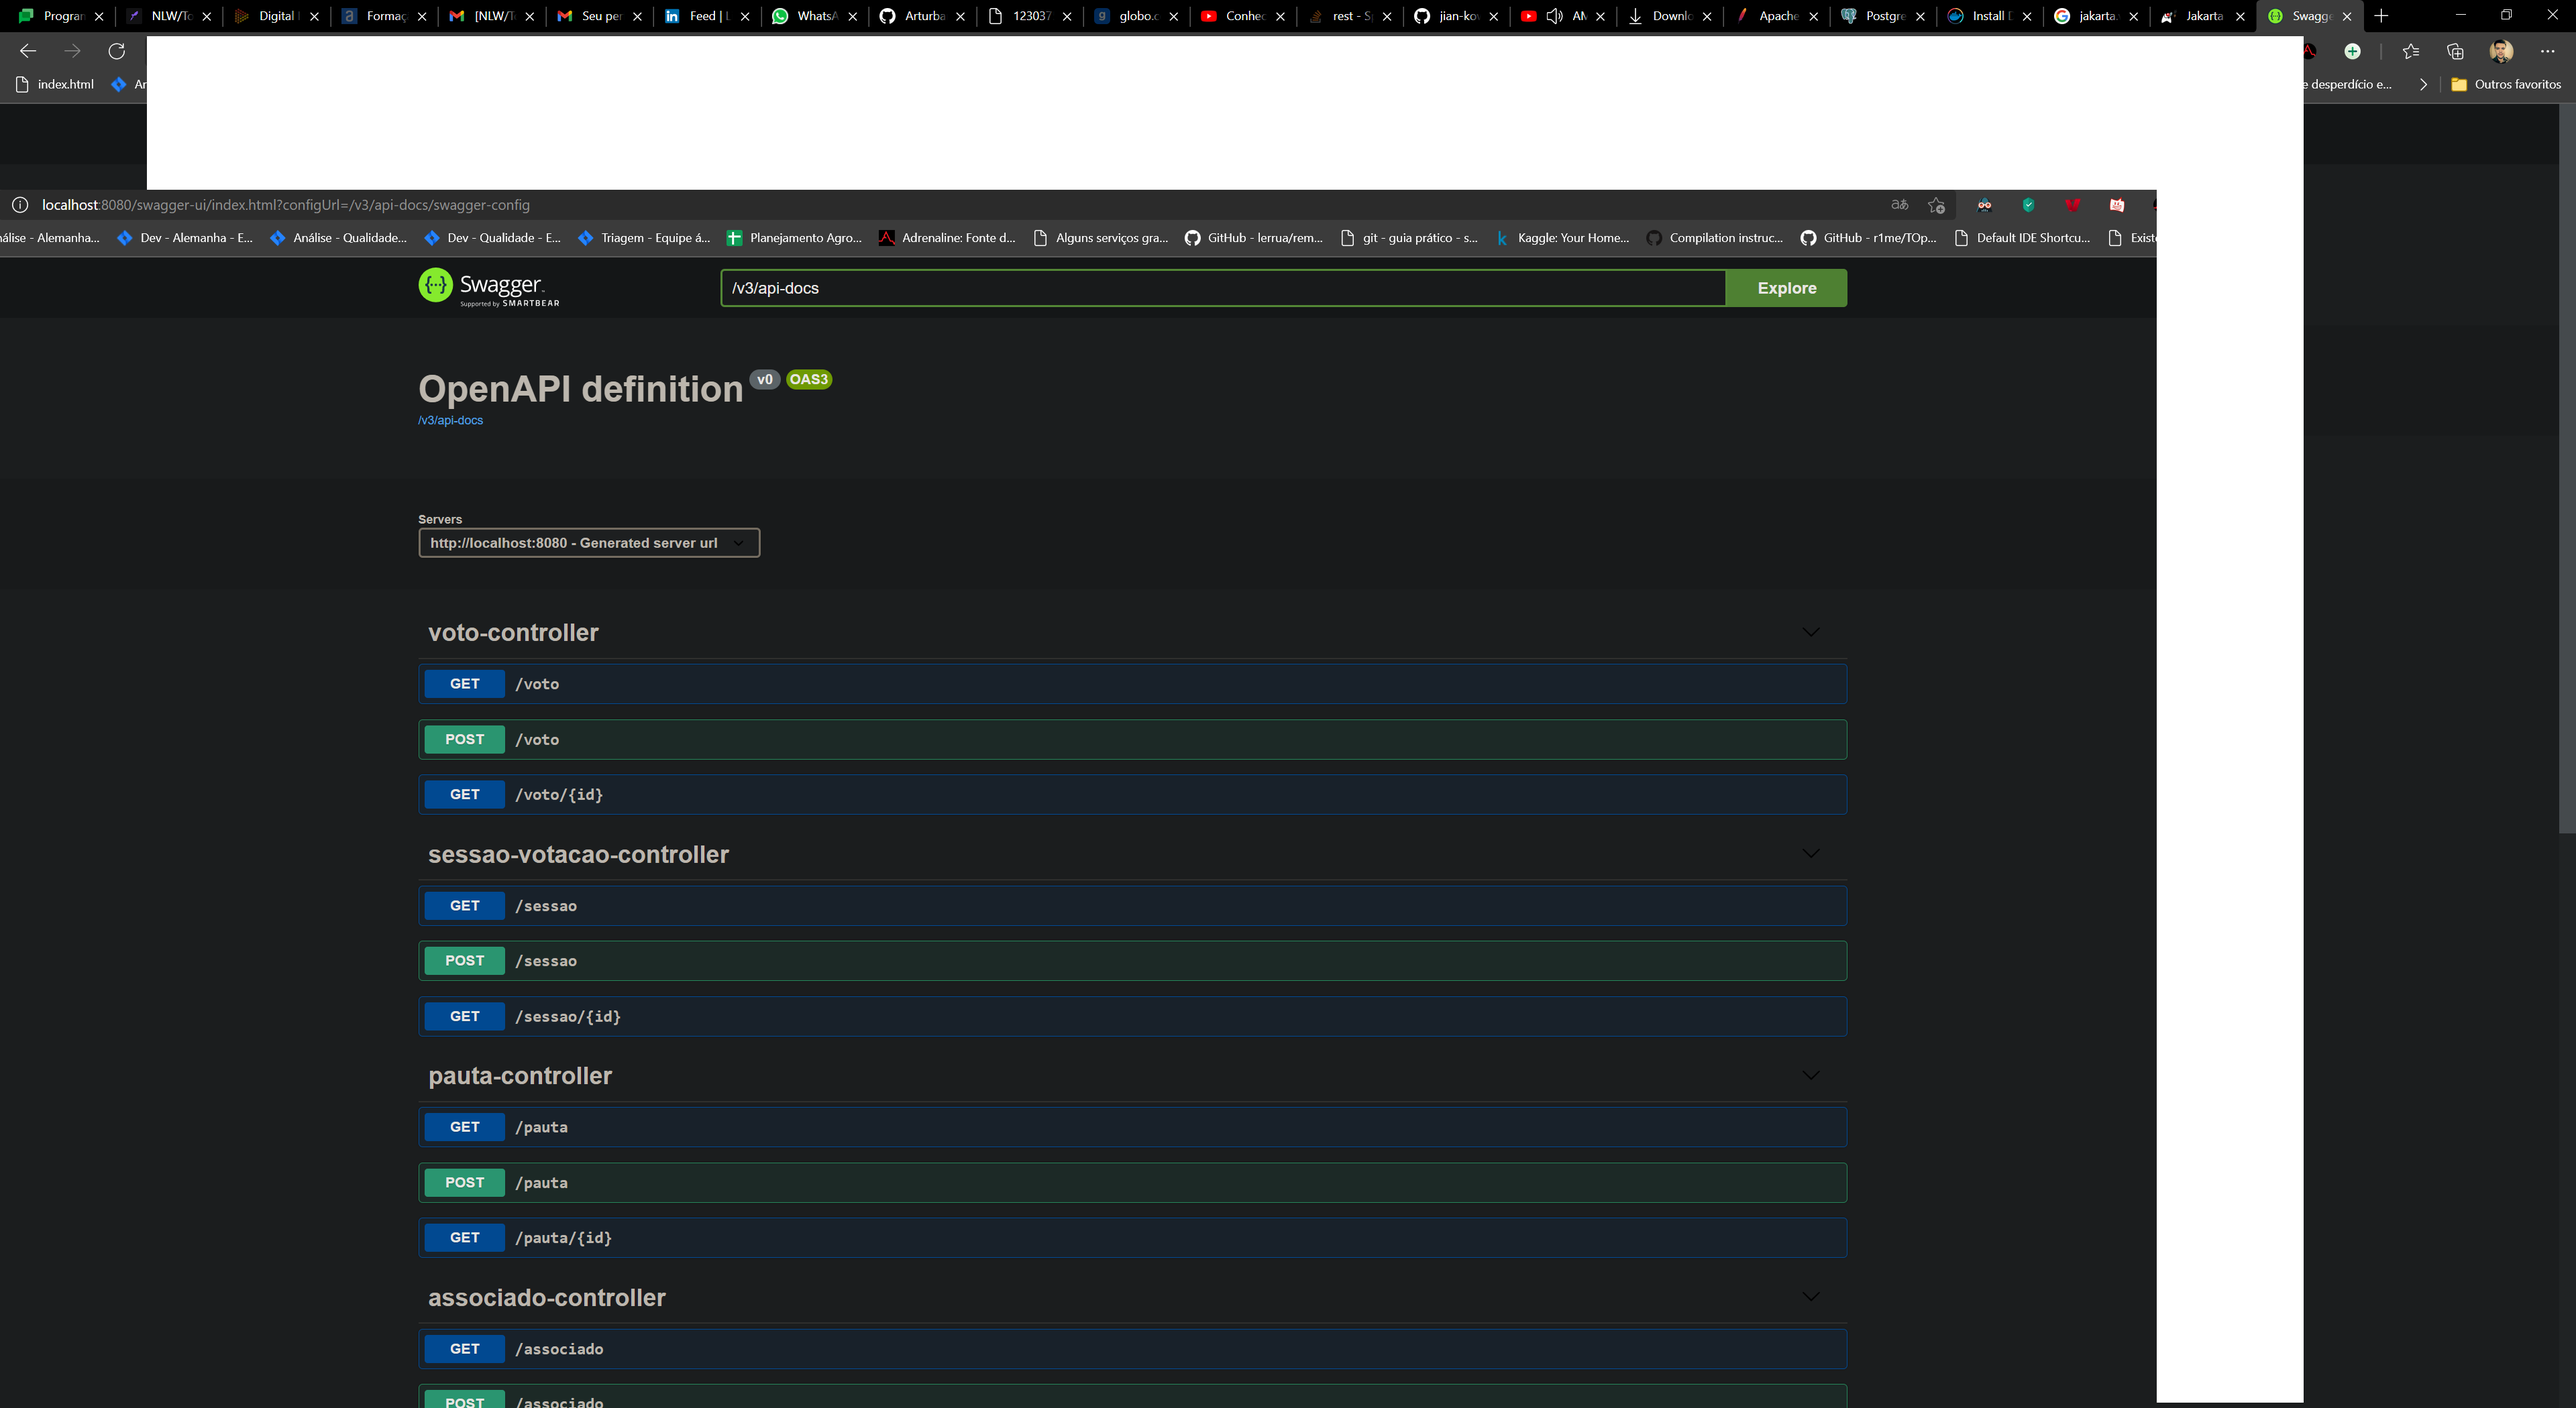
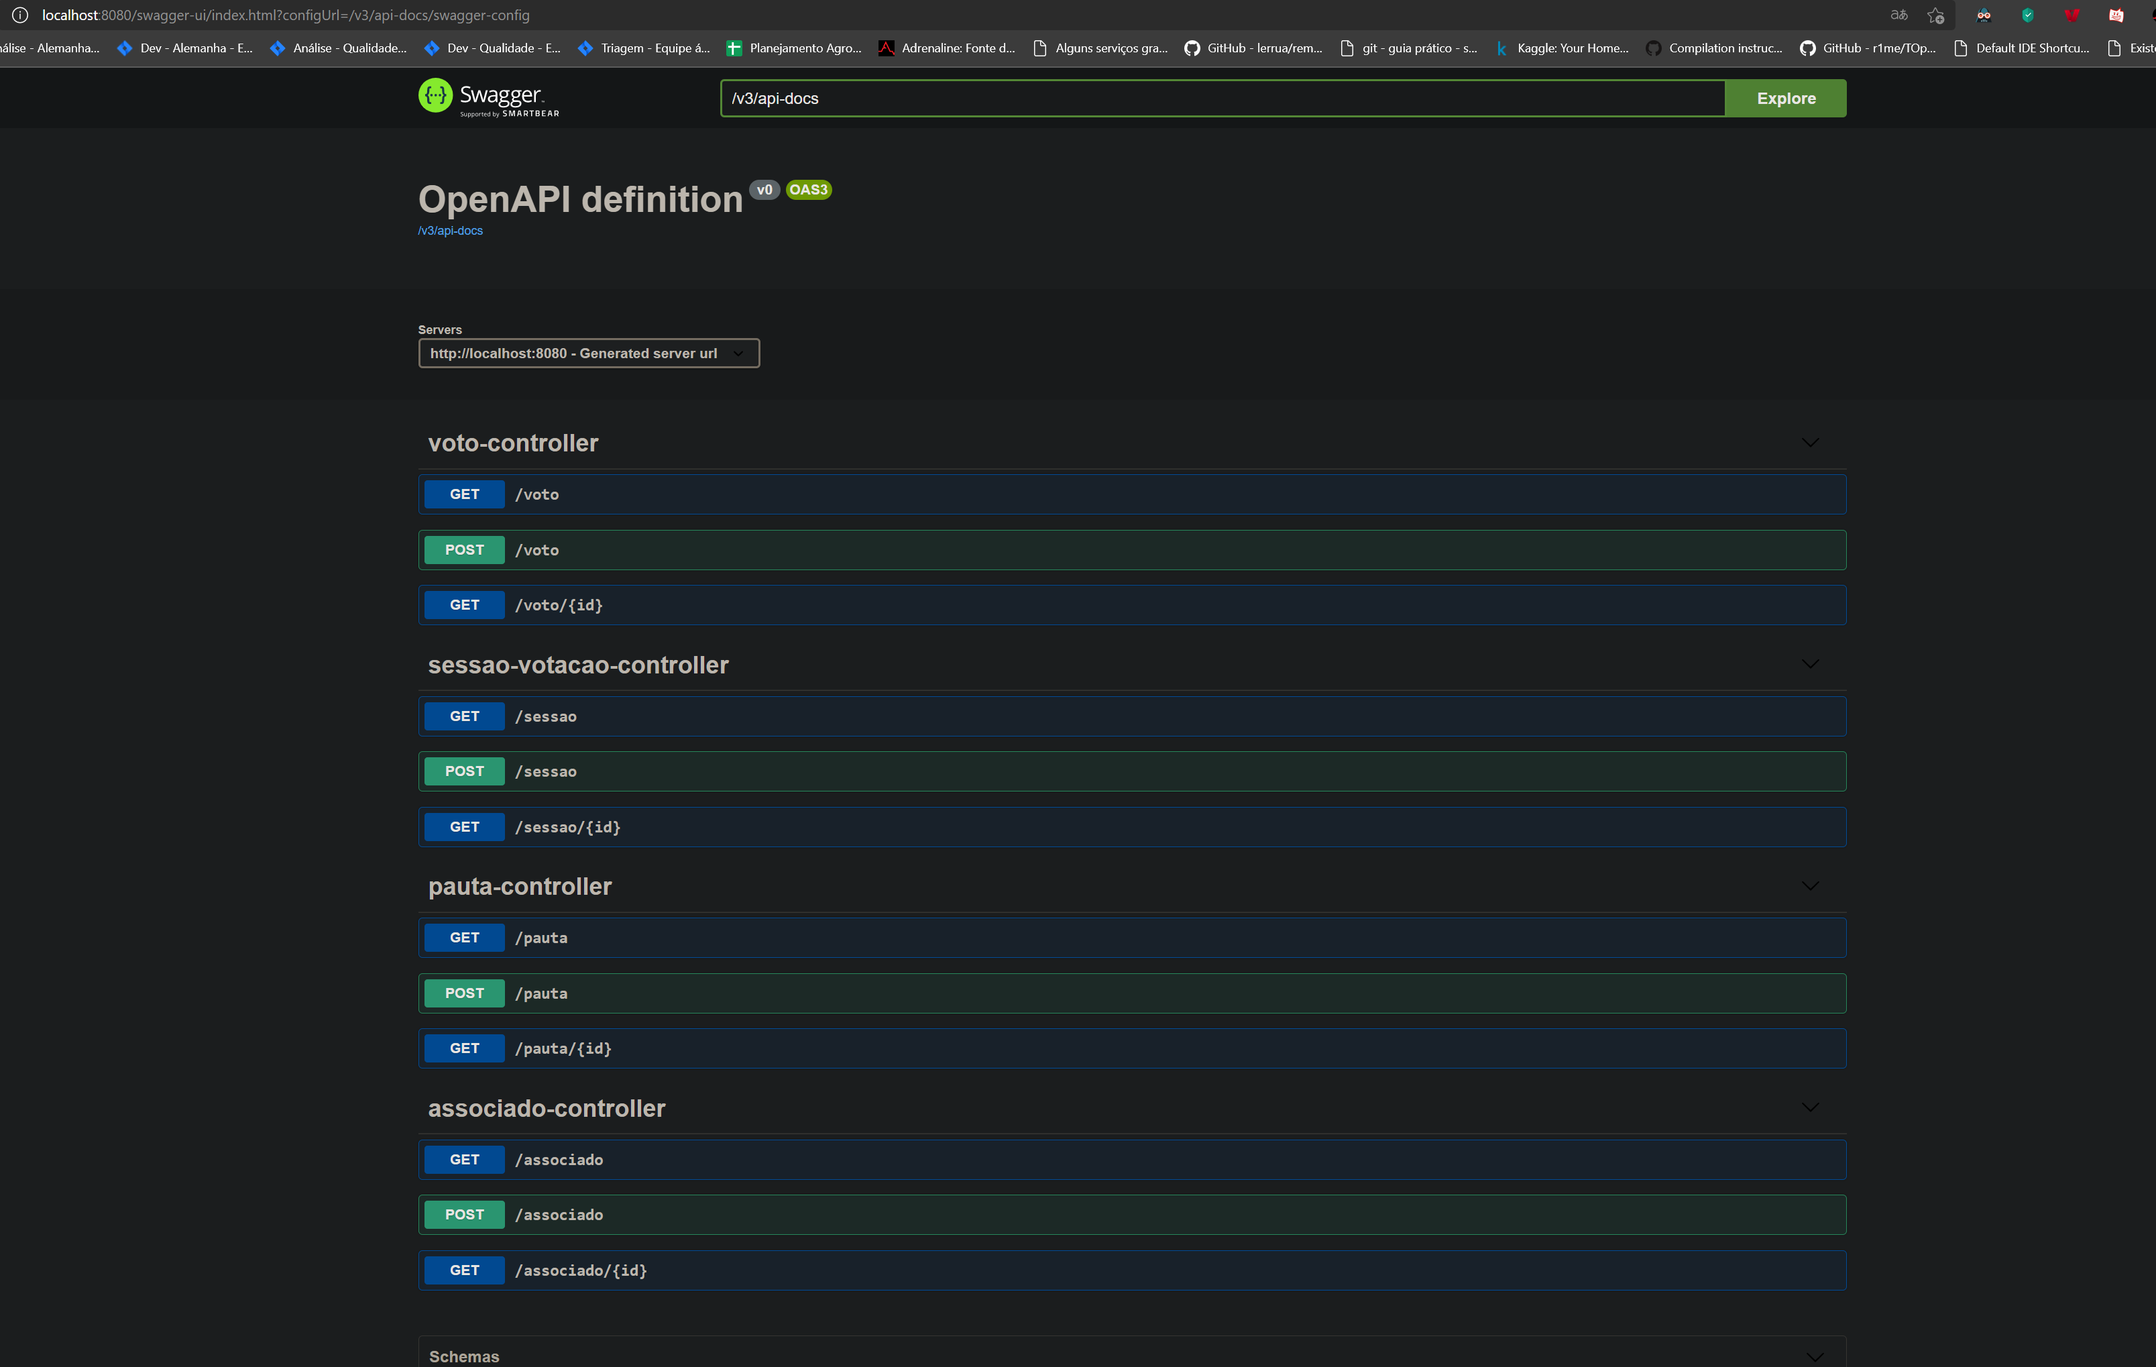
ajustes readme

Changed region(s): [[0.0, 0.0, 1.0, 1.0], [0.1555, 0.2473, 0.3421, 1.0]]

diff --git a/README.md b/README.md
@@ -121,7 +121,8 @@ A API foi desenvolvida com as seguintes funcionalidades:
 
 Abaixo imagem da documentação Swagger gerada.
 
-<img width="1920" alt="Documentação Swagger" src="https://user-images.githubusercontent.com/3423282/123038437-c8284600-d3c6-11eb-8fd6-e2eb03b23fa3.png">
+<img width="1608" alt="Documentação Swagger" src="https://user-images.githubusercontent.com/3423282/123038584-13daef80-d3c7-11eb-8055-3a931672f8ae.png">
+
 
 
 
